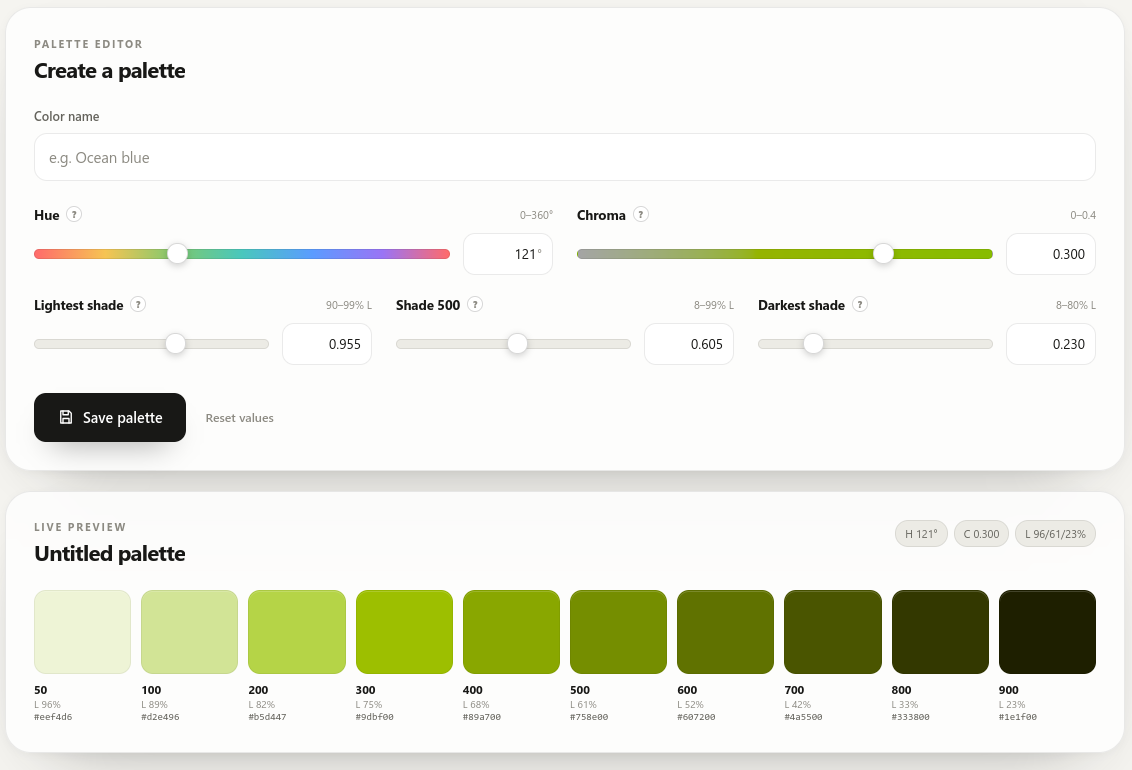
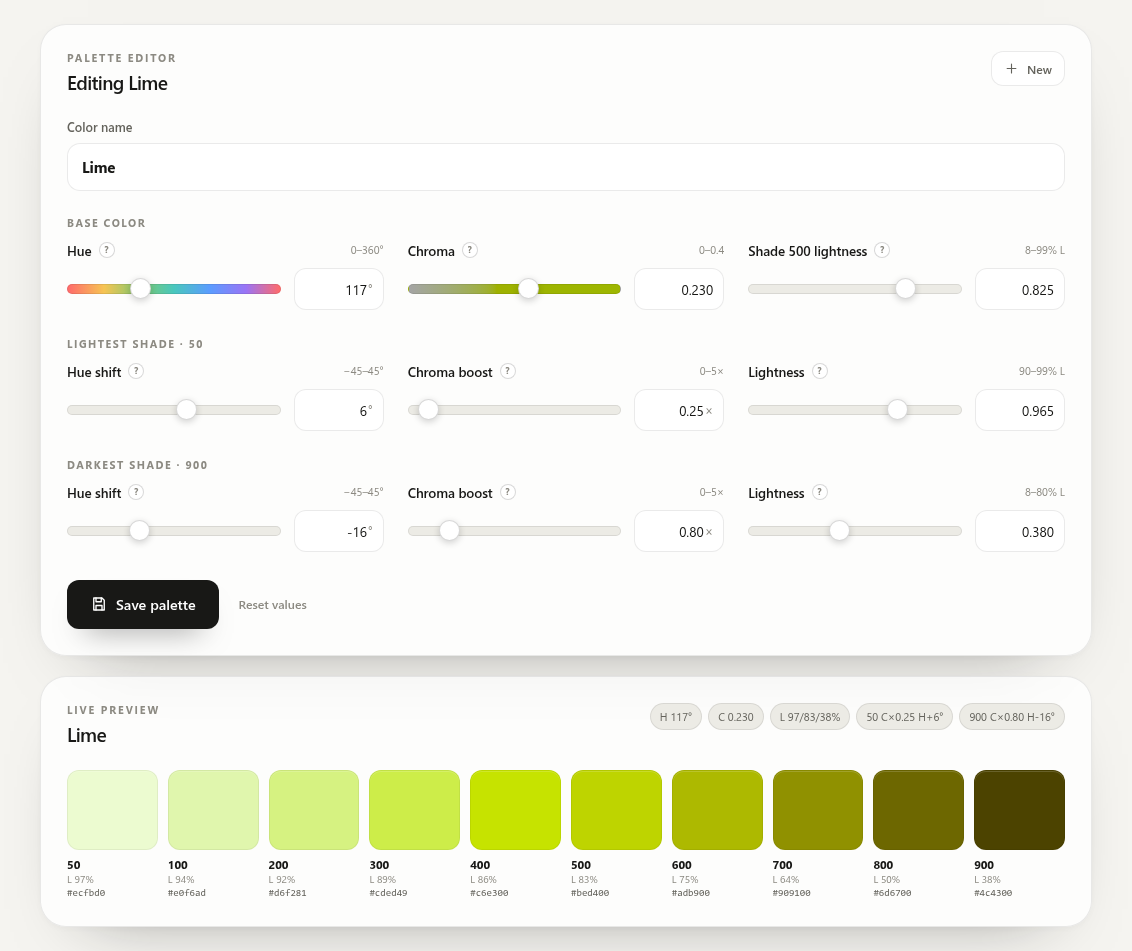
Refresh README screenshots for the retuned default palettes

diff --git a/README.md b/README.md
@@ -17,8 +17,14 @@ A browser-only color palette generator built around the OKLCH color model. Pick 
 - The palette collection is also encoded in the page URL for sharing.
 - Light and dark themes, with the selected theme persisted.
 - Compact mobile layout: editor and preview fit small screens, and all shades stay on one line without horizontal scrolling.
-- Restore default palettes from the empty state.
+- Ships with 16 OKLCH-tuned default palettes (Red through Warm Gray), restorable from the empty state.
 - Export the whole collection as an SVG sheet or a CSS file, opened in a new tab.
+
+## Default palettes
+
+The collection starts with 16 OKLCH-tuned palettes: Red, Orange, Amber, Yellow, Lime, Green, Teal, Cyan, Blue, Indigo, Purple, Pink, Brown, Cold Gray, Gray and Warm Gray. Each one sets its own endpoint lightness, chroma boost and hue shift so the ramps keep their hue character as they approach white and black.
+
+![Default palettes](screenshot-palettes.png)
 
 ## Tech stack
 
